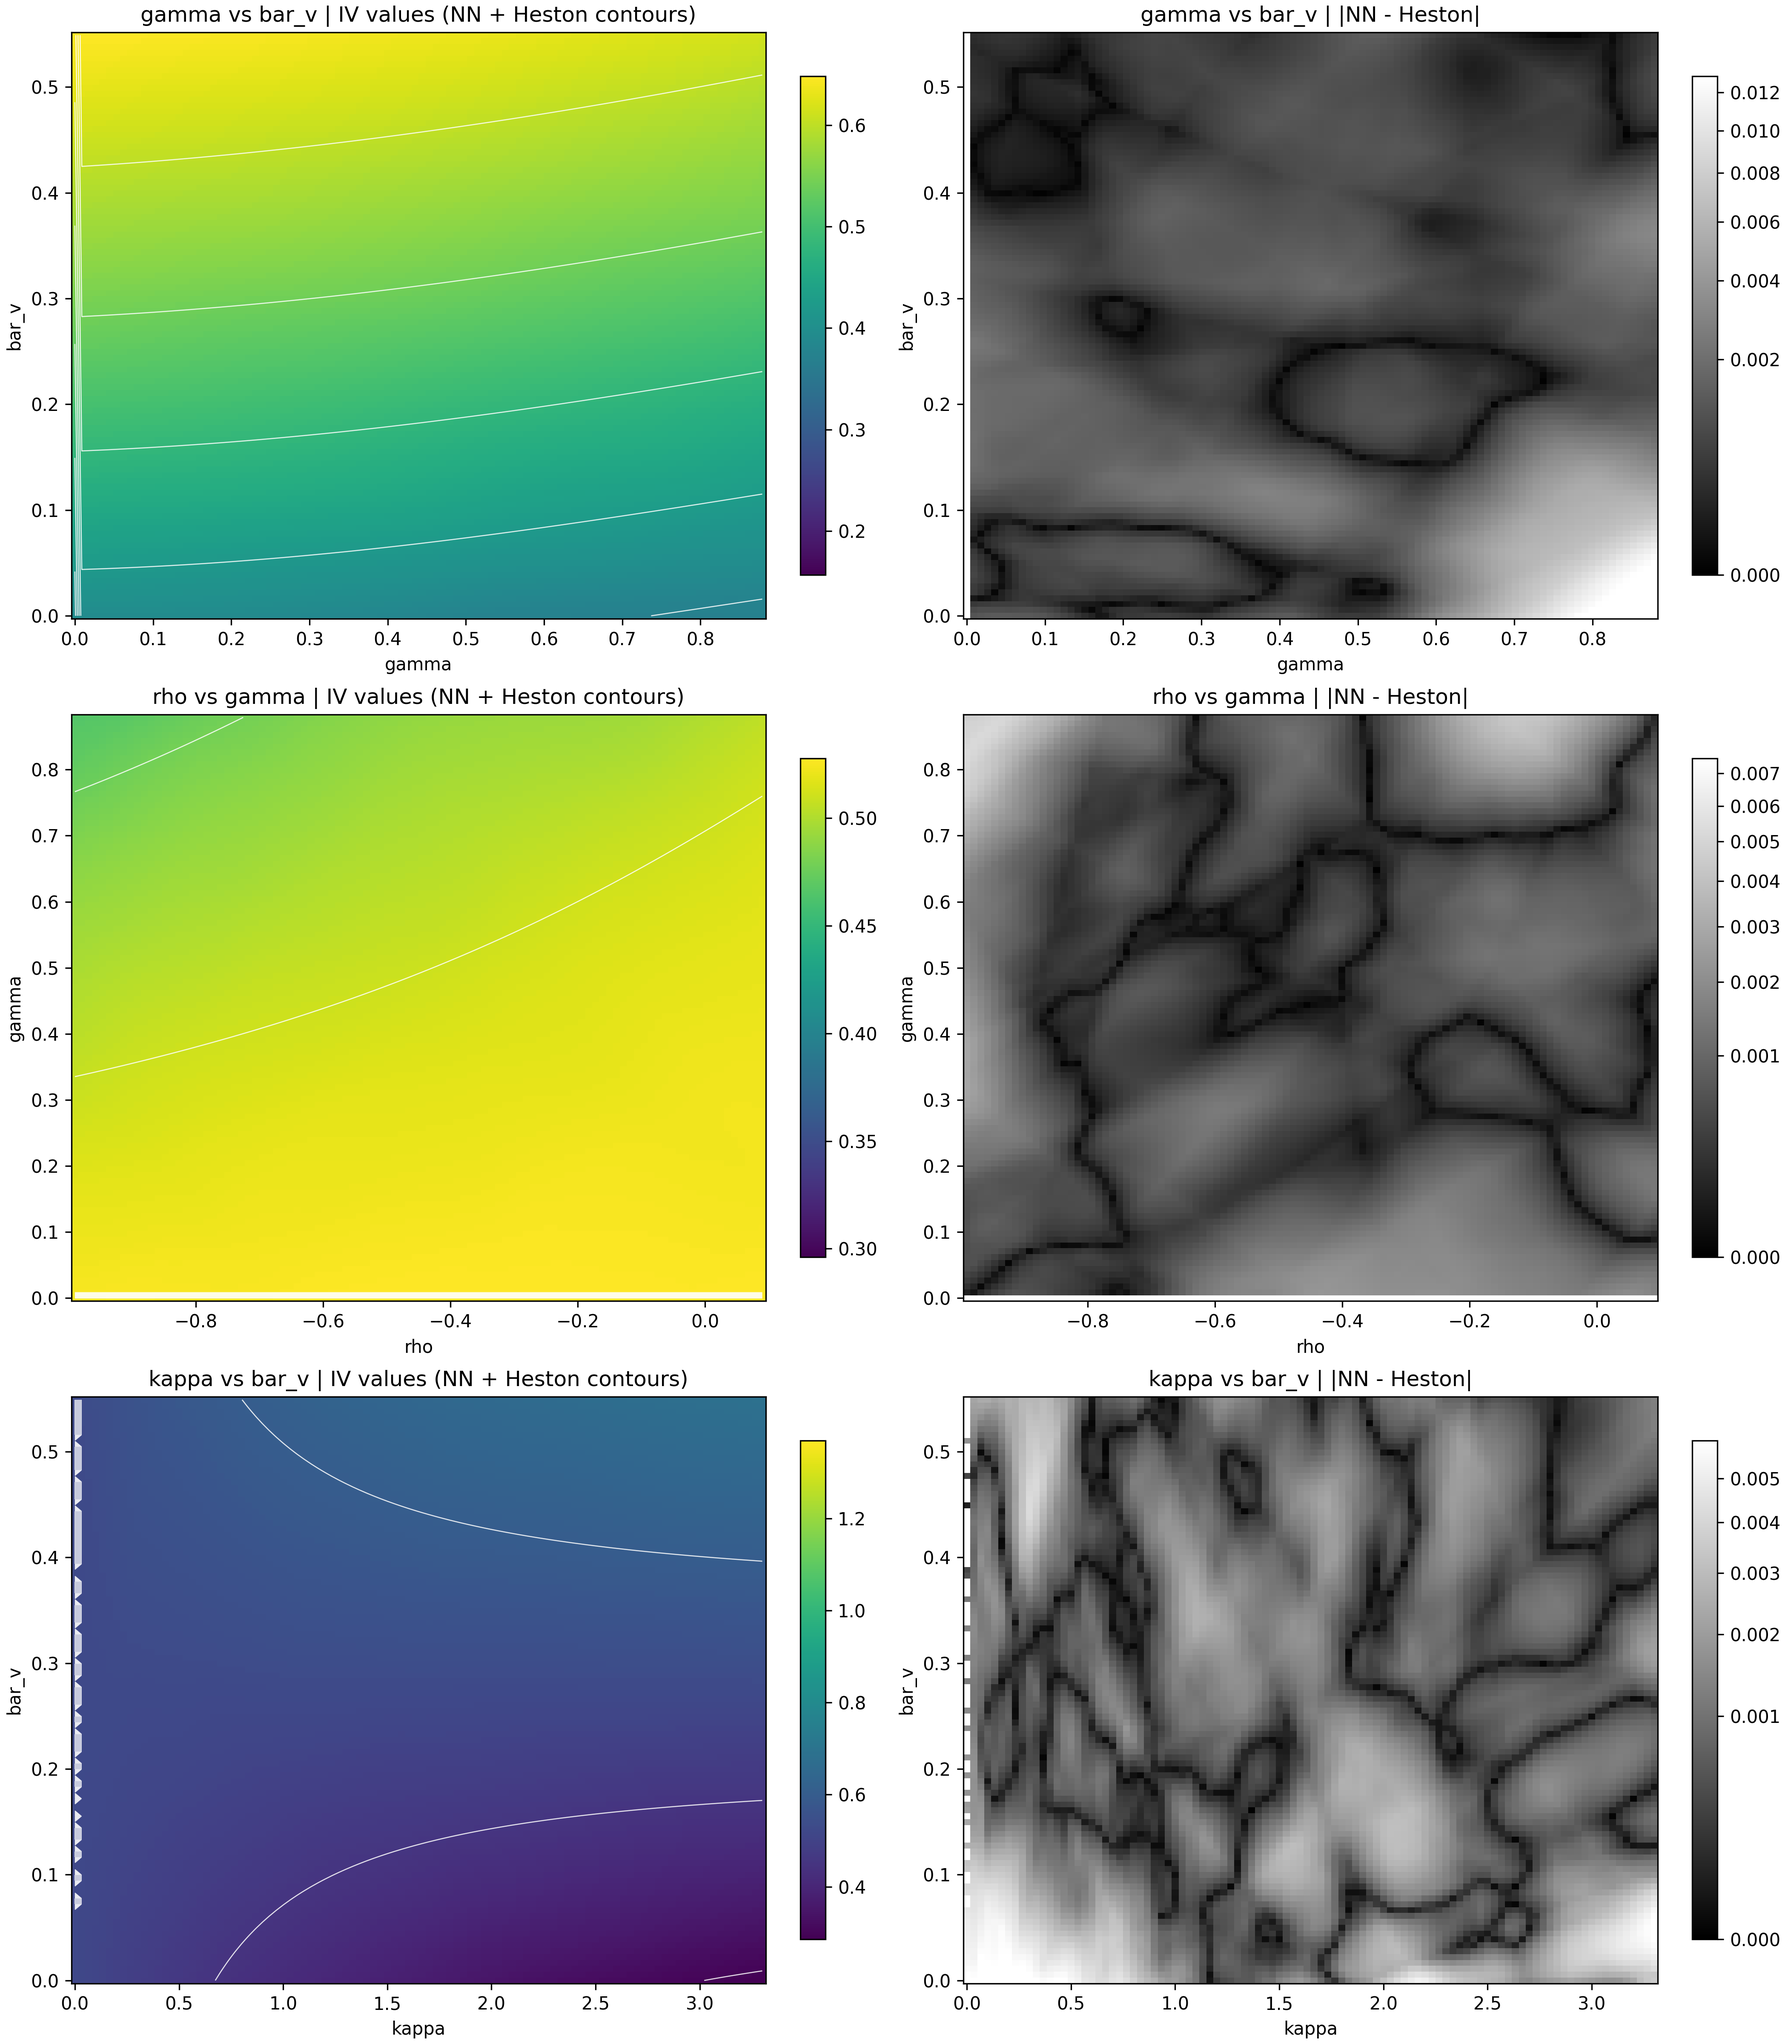
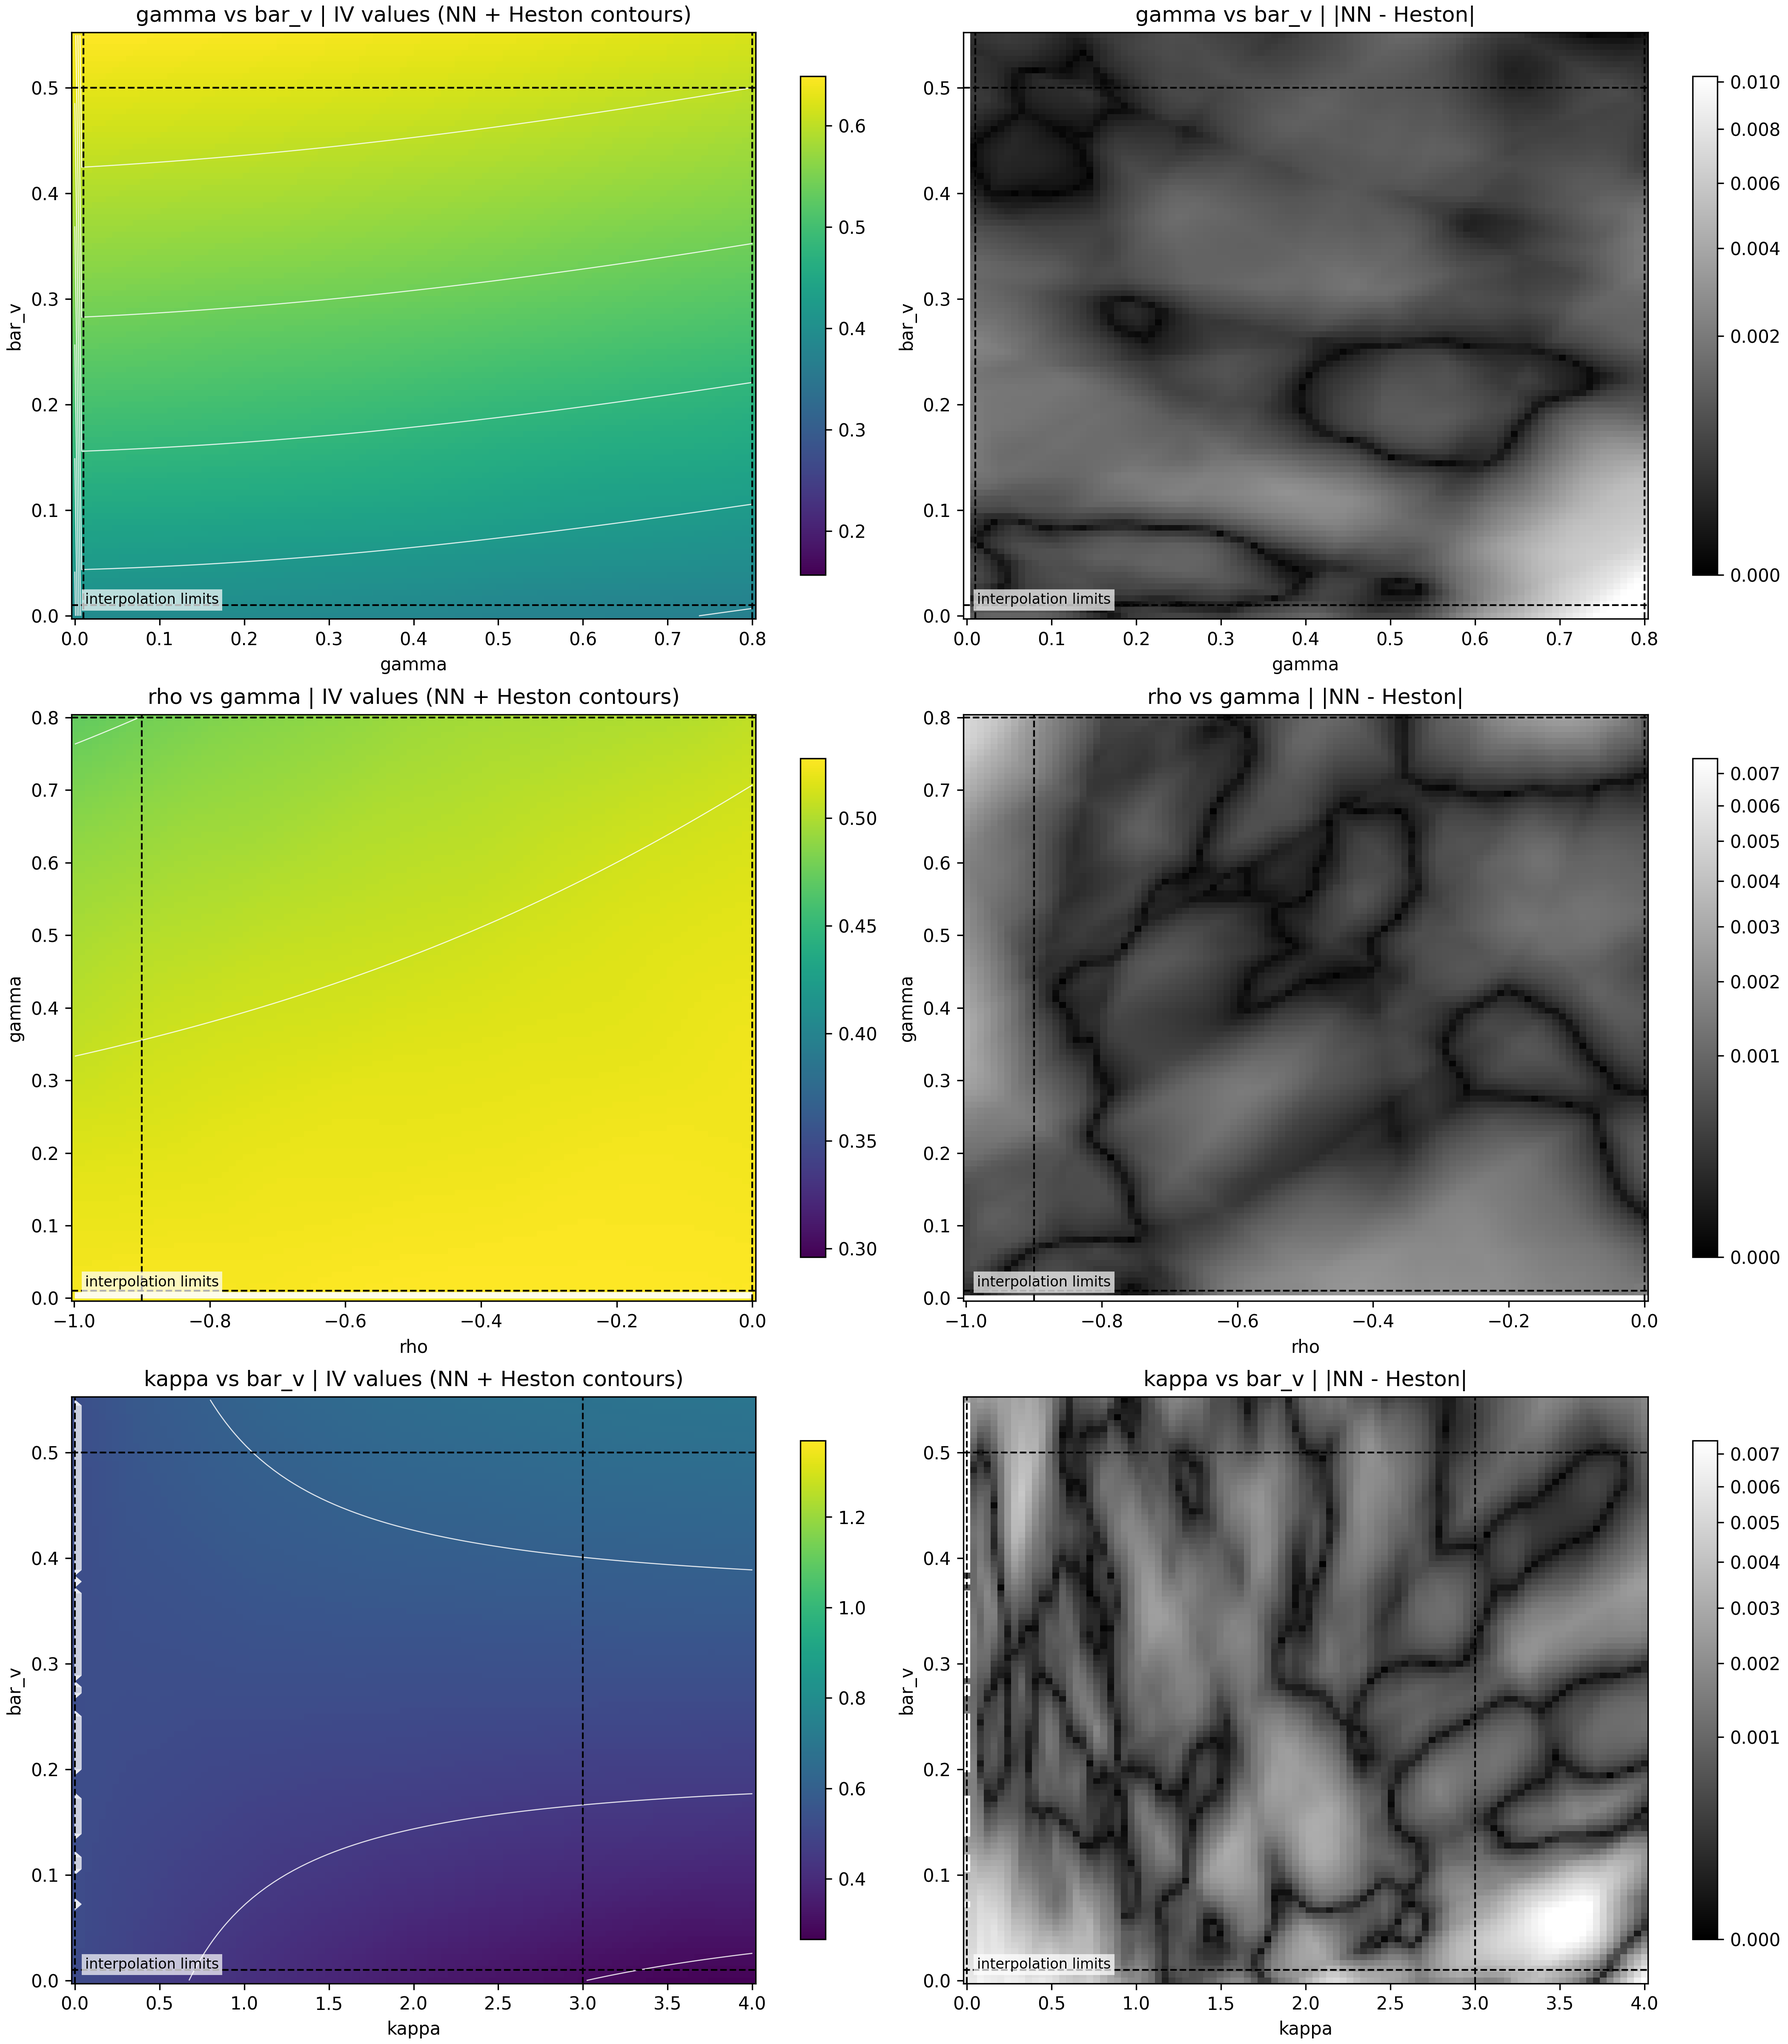
New sensitivity study

diff --git a/scripts/sensitivity_pricer.py b/scripts/sensitivity_pricer.py
@@ -66,7 +66,8 @@ class SensitivityPricer2D:
             raise ValueError(
                 f"sensitivity_config.yaml must define exactly 3 parameter pairs for a 3x2 grid; got {len(self.pairs)}"
             )
-        self.grid_factor = float(self.config["grid"]["expansion_factor"])
+        self.grid_factor = float(self.config["grid"].get("expansion_factor", 1.2))
+        self.extrapolation_ranges = self.config["grid"].get("extrapolation_ranges", {})
         self.n_points = int(self.config["grid"]["n_points"])
         self.error_metric = self.config.get("error_metric", "rmse").lower()
 
@@ -110,6 +111,41 @@ class SensitivityPricer2D:
         if name in self.fixed_values:
             return _as_range(self.fixed_values[name])
         raise KeyError(f"Missing range for parameter '{name}'")
+
+    @staticmethod
+    def _normalize_bounds(min_val: float, max_val: float) -> Tuple[float, float]:
+        if min_val <= max_val:
+            return min_val, max_val
+        return max_val, min_val
+
+    def _clamp_param_bounds(self, name: str, min_val: float, max_val: float) -> Tuple[float, float]:
+        min_val, max_val = self._normalize_bounds(float(min_val), float(max_val))
+
+        if name in STRICT_POSITIVE_PARAMS:
+            min_val = max(1.0e-12, min_val)
+            max_val = max(1.0e-12, max_val)
+        if name == "rho":
+            min_val = max(-0.999, min_val)
+            max_val = min(0.999, max_val)
+
+        if min_val > max_val:
+            raise ValueError(f"Invalid bounds for '{name}' after clamping: [{min_val}, {max_val}]")
+        return min_val, max_val
+
+    def _grid_ranges_for_param(self, name: str) -> Tuple[float, float, float, float]:
+        interp_min, interp_max = self._clamp_param_bounds(name, *self._range_for_param(name))
+        if name in self.extrapolation_ranges:
+            grid_min, grid_max = _as_range(self.extrapolation_ranges[name])
+        else:
+            grid_min, grid_max = _expand_range(interp_min, interp_max, self.grid_factor)
+        grid_min, grid_max = self._clamp_param_bounds(name, grid_min, grid_max)
+
+        if grid_min > interp_min or grid_max < interp_max:
+            raise ValueError(
+                f"Grid range for '{name}' must include interpolation range. "
+                f"Interpolation=[{interp_min}, {interp_max}], Grid=[{grid_min}, {grid_max}]"
+            )
+        return interp_min, interp_max, grid_min, grid_max
 
     def _parse_market_config(self) -> Tuple[np.ndarray, str, float, str]:
         cos_cfg = self.data_cfg["cos_solver"]
@@ -161,27 +197,23 @@ class SensitivityPricer2D:
         model.to(self.device)
         return model
 
-    def _grid_for_pair(self, param1: str, param2: str) -> Tuple[np.ndarray, np.ndarray]:
-        p1_min, p1_max = _expand_range(*self._range_for_param(param1), self.grid_factor)
-        p2_min, p2_max = _expand_range(*self._range_for_param(param2), self.grid_factor)
-        if param1 in STRICT_POSITIVE_PARAMS:
-            p1_min = max(1.0e-12, p1_min)
-            p1_max = max(1.0e-12, p1_max)
-        if param2 in STRICT_POSITIVE_PARAMS:
-            p2_min = max(1.0e-12, p2_min)
-            p2_max = max(1.0e-12, p2_max)
-        if param1 == "rho":
-            p1_min = max(-0.999, p1_min)
-            p1_max = min(0.999, p1_max)
-        if param2 == "rho":
-            p2_min = max(-0.999, p2_min)
-            p2_max = min(0.999, p2_max)
+    def _grid_for_pair(
+        self, param1: str, param2: str
+    ) -> Tuple[np.ndarray, np.ndarray, np.ndarray, Tuple[float, float], Tuple[float, float]]:
+        p1_interp_min, p1_interp_max, p1_grid_min, p1_grid_max = self._grid_ranges_for_param(param1)
+        p2_interp_min, p2_interp_max, p2_grid_min, p2_grid_max = self._grid_ranges_for_param(param2)
 
-        p1_values = np.linspace(p1_min, p1_max, self.n_points, dtype=np.float64)
-        p2_values = np.linspace(p2_min, p2_max, self.n_points, dtype=np.float64)
+        p1_values = np.linspace(p1_grid_min, p1_grid_max, self.n_points, dtype=np.float64)
+        p2_values = np.linspace(p2_grid_min, p2_grid_max, self.n_points, dtype=np.float64)
 
         P1, P2 = np.meshgrid(p1_values, p2_values, indexing="ij")
-        return P1, P2
+        interpolation_mask = (
+            (P1 >= p1_interp_min)
+            & (P1 <= p1_interp_max)
+            & (P2 >= p2_interp_min)
+            & (P2 <= p2_interp_max)
+        )
+        return P1, P2, interpolation_mask, (p1_interp_min, p1_interp_max), (p2_interp_min, p2_interp_max)
 
     def _build_feature_grid(
         self, param1: str, param2: str, P1: np.ndarray, P2: np.ndarray
@@ -295,11 +327,38 @@ class SensitivityPricer2D:
 
     def _plot_grid_3x2(
         self,
-        rows: List[Tuple[str, str, np.ndarray, np.ndarray, np.ndarray, np.ndarray, np.ndarray]],
+        rows: List[
+            Tuple[
+                str,
+                str,
+                np.ndarray,
+                np.ndarray,
+                np.ndarray,
+                Tuple[float, float],
+                Tuple[float, float],
+                np.ndarray,
+                np.ndarray,
+                np.ndarray,
+            ]
+        ],
     ) -> Path:
         fig, axes = plt.subplots(nrows=3, ncols=2, figsize=(14, 16), constrained_layout=True)
 
-        for row_idx, (param1, param2, P1, P2, y_nn, y_heston, error_surface) in enumerate(rows):
+        for (
+            row_idx,
+            (
+                param1,
+                param2,
+                P1,
+                P2,
+                _interpolation_mask,
+                p1_interp_bounds,
+                p2_interp_bounds,
+                y_nn,
+                y_heston,
+                error_surface,
+            ),
+        ) in enumerate(rows):
             ax_val = axes[row_idx, 0]
             ax_err = axes[row_idx, 1]
 
@@ -370,6 +429,22 @@ class SensitivityPricer2D:
                 ax_err.set_title(f"{param1} vs {param2} | {self.error_metric.upper()} error")
             fig.colorbar(mesh_err, ax=ax_err, shrink=0.85)
 
+            for ax in (ax_val, ax_err):
+                ax.axvline(p1_interp_bounds[0], linestyle="--", linewidth=1.0, color="black")
+                ax.axvline(p1_interp_bounds[1], linestyle="--", linewidth=1.0, color="black")
+                ax.axhline(p2_interp_bounds[0], linestyle="--", linewidth=1.0, color="black")
+                ax.axhline(p2_interp_bounds[1], linestyle="--", linewidth=1.0, color="black")
+                ax.text(
+                    0.02,
+                    0.02,
+                    "interpolation limits",
+                    transform=ax.transAxes,
+                    fontsize=8,
+                    ha="left",
+                    va="bottom",
+                    bbox={"facecolor": "white", "edgecolor": "none", "alpha": 0.7, "pad": 2.0},
+                )
+
         fig_path = self.fig_dir / "sensitivity_grid_3x2.png"
         fig.savefig(fig_path, dpi=300)
         plt.close(fig)
@@ -381,14 +456,27 @@ class SensitivityPricer2D:
             if self.verbose:
                 print(f"Processing pair: {param1} vs {param2}")
 
-            P1, P2 = self._grid_for_pair(param1, param2)
+            P1, P2, interpolation_mask, p1_interp_bounds, p2_interp_bounds = self._grid_for_pair(param1, param2)
             features = self._build_feature_grid(param1, param2, P1, P2)
             x_flat = features.reshape(-1, len(PARAM_ORDER))
 
             y_nn = self._predict_nn(x_flat).reshape(P1.shape)
             y_heston = self._compute_iv_surface(x_flat).reshape(P1.shape)
             error_surface = self._compute_error_surface(y_nn, y_heston)
-            plot_rows.append((param1, param2, P1, P2, y_nn, y_heston, error_surface))
+            plot_rows.append(
+                (
+                    param1,
+                    param2,
+                    P1,
+                    P2,
+                    interpolation_mask,
+                    p1_interp_bounds,
+                    p2_interp_bounds,
+                    y_nn,
+                    y_heston,
+                    error_surface,
+                )
+            )
 
         fig_path = self._plot_grid_3x2(plot_rows)
         if self.verbose:
